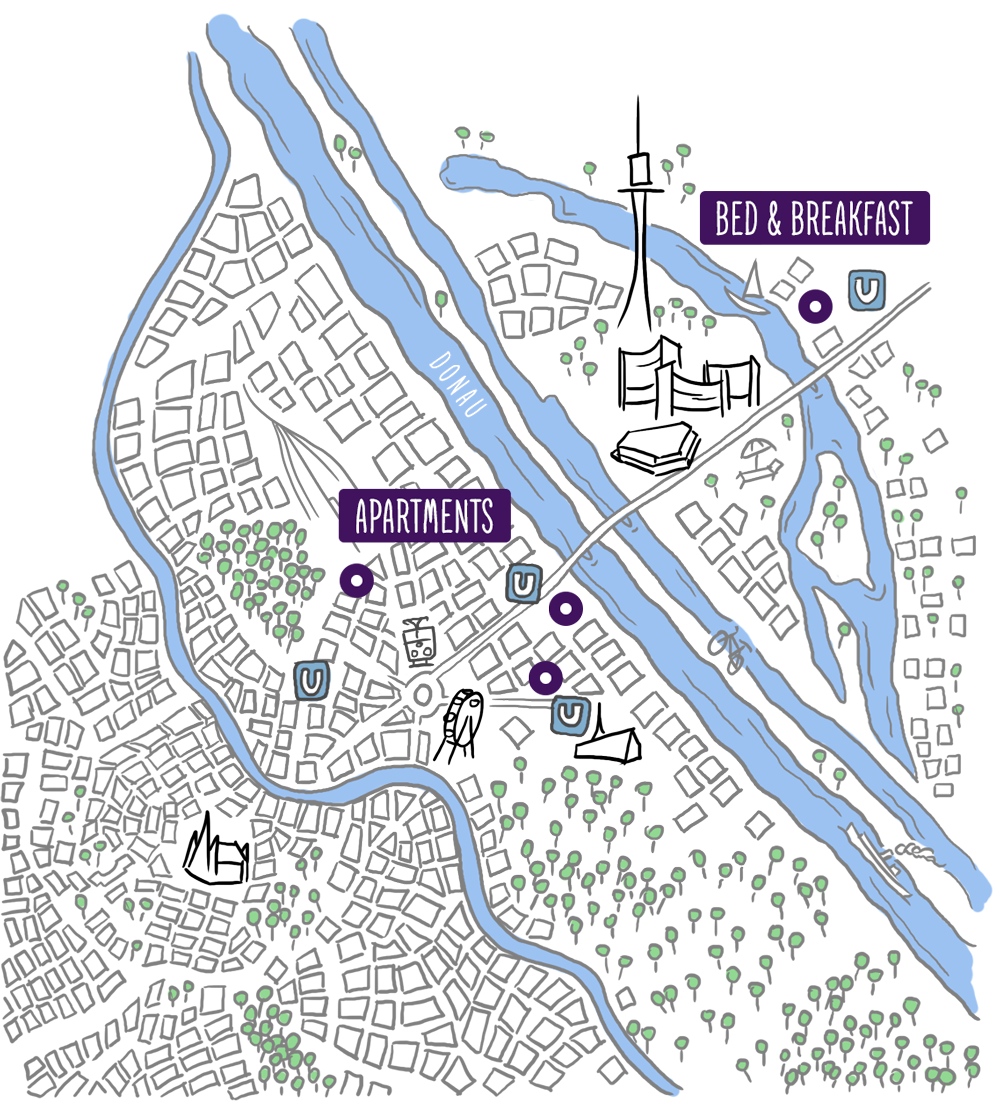
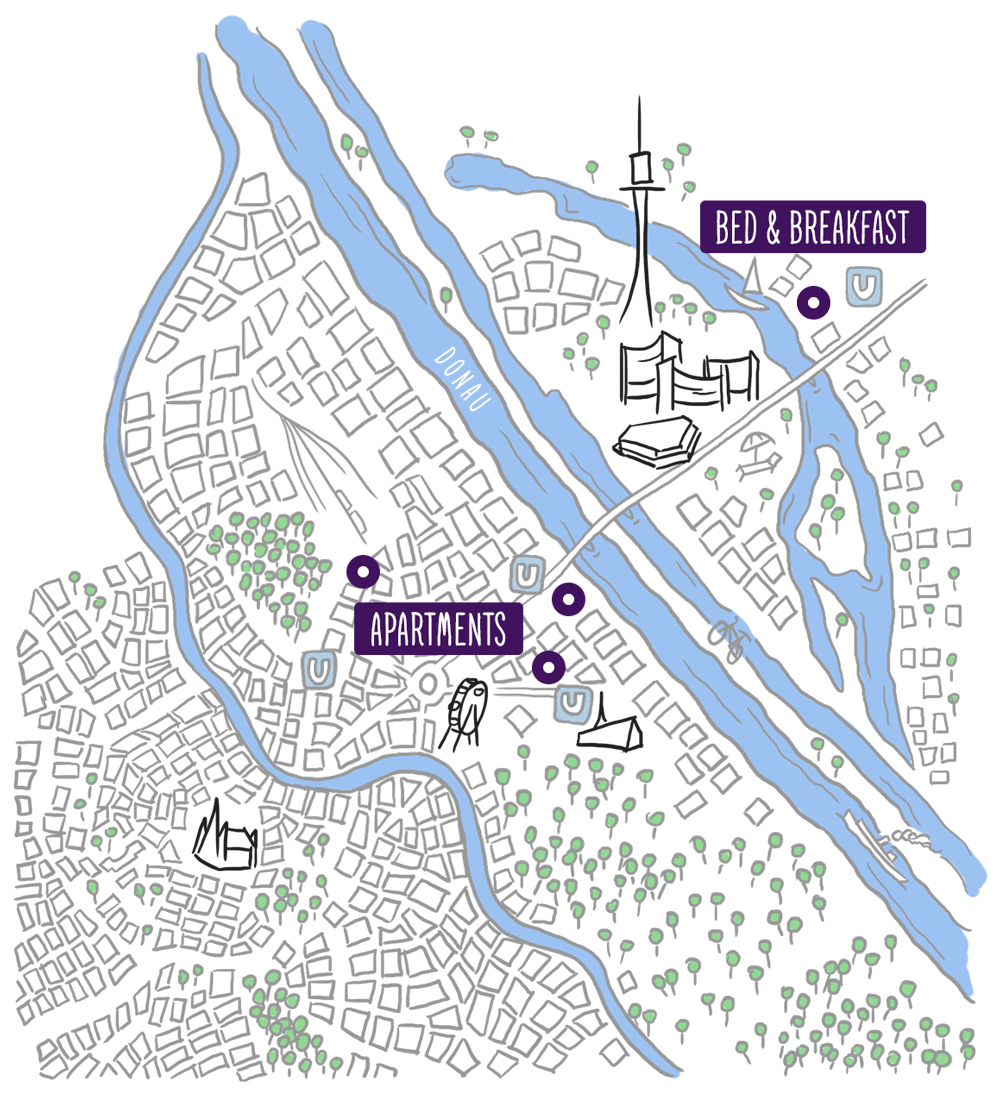
Anpassung Übersicht B&B
Ergänzung Text, Styling fehlt

diff --git a/assets/css/_sections.sass b/assets/css/_sections.sass
@@ -45,7 +45,8 @@ section
 		bottom: -40px
 		left: -40px
 		z-index: 1
-		background: url(home-bg.jpg)
+		background: url(home-bg)
+		background-color: #000
 		background-size: cover
 		background-position: center
 		-webkit-filter: blur(6px) saturate(0.8) 
